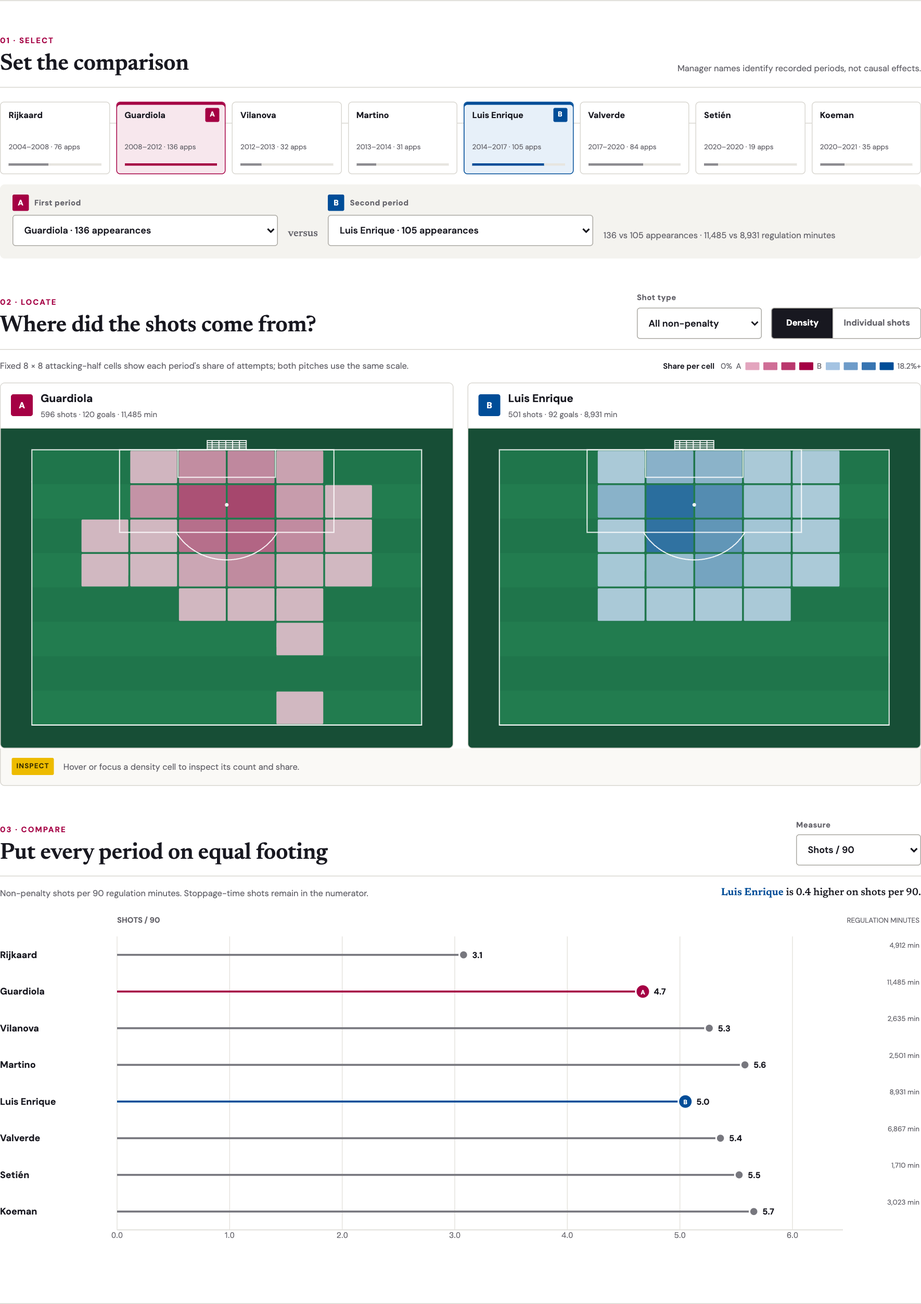
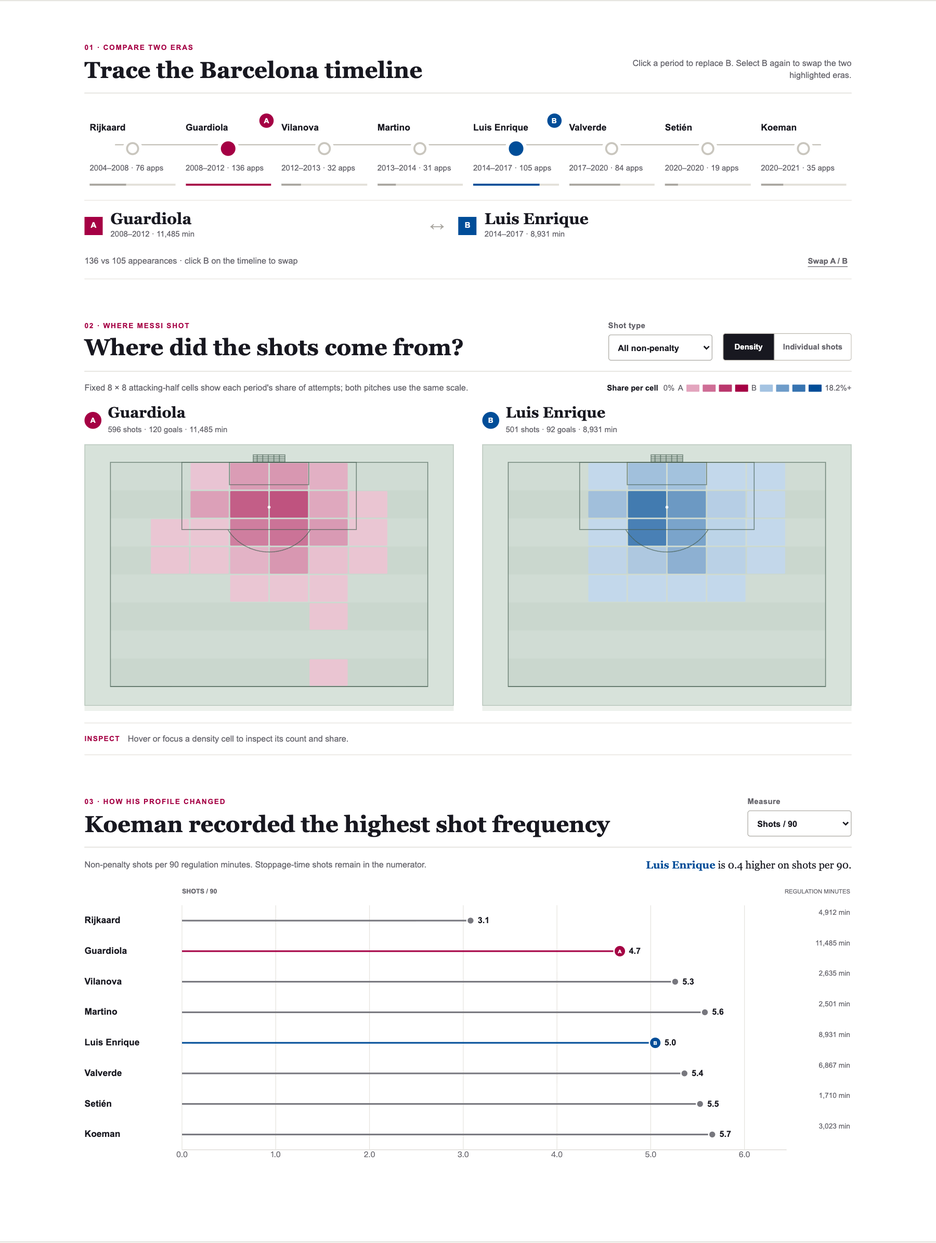
Reframe Messi redesign as a football editorial story

diff --git a/main.js b/main.js
@@ -33,22 +33,49 @@ function renderRail() {
     .attr("class", "period").attr("type", "button")
     .attr("data-selected", d => +d.manager_id === +state.a && +d.manager_id === +state.b ? "both" : +d.manager_id === +state.a ? "a" : +d.manager_id === +state.b ? "b" : null)
     .attr("aria-pressed", d => +d.manager_id === +state.a || +d.manager_id === +state.b ? "true" : "false")
-    .attr("aria-label", d => `${shortName(d)}, ${d.matches} appearances, ${formatInt(d.minutes)} regulation minutes. Set as comparison period B.`)
+    .attr("aria-label", d => +d.manager_id === +state.a ? `${shortName(d)}, period A. Select another period to compare.` : +d.manager_id === +state.b ? `${shortName(d)}, period B. Activate to swap A and B.` : `${shortName(d)}, ${d.matches} appearances, ${formatInt(d.minutes)} regulation minutes. Set as period B.`)
     .html(d => {
       const selected = +d.manager_id === +state.a && +d.manager_id === +state.b ? "A/B" : +d.manager_id === +state.a ? "A" : +d.manager_id === +state.b ? "B" : "";
       return `${selected ? `<span class="period-slot">${selected}</span>` : ""}<span class="period-name">${shortName(d)}</span><span class="period-date">${d.first.slice(0, 4)}–${d.last.slice(0, 4)} · ${d.matches} apps</span><span class="period-bar"><span style="width:${100 * d.minutes / maxMinutes}%"></span></span>`;
     })
     .on("click", (_, d) => {
       if (+d.manager_id === +state.a) return;
-      state.b = +d.manager_id;
+      if (+d.manager_id === +state.b) [state.a, state.b] = [state.b, state.a];
+      else state.b = +d.manager_id;
       state.pinned = null;
       render();
     });
   cards.order();
-  d3.select("#manager-a").property("value", state.a);
-  d3.select("#manager-b").property("value", state.b);
   const a = findPeriod(state.a), b = findPeriod(state.b);
-  d3.select("#comparison-note").text(`${a.matches} vs ${b.matches} appearances · ${formatInt(a.minutes)} vs ${formatInt(b.minutes)} regulation minutes`);
+  d3.select("#compare-a-name").text(shortName(a));
+  d3.select("#compare-a-meta").text(`${a.first.slice(0, 4)}–${a.last.slice(0, 4)} · ${formatInt(a.minutes)} min`);
+  d3.select("#compare-b-name").text(shortName(b));
+  d3.select("#compare-b-meta").text(`${b.first.slice(0, 4)}–${b.last.slice(0, 4)} · ${formatInt(b.minutes)} min`);
+  d3.select("#comparison-note").text(`${a.matches} vs ${b.matches} appearances · click B on the timeline to swap`);
+}
+
+function drawHeroVisual() {
+  const host = d3.select("#hero-visual");
+  const width = Math.max(280, host.node().clientWidth || 440), height = 280;
+  const svg = host.selectAll("svg").data([null]).join("svg").attr("viewBox", `0 0 ${width} ${height}`).attr("role", "img");
+  svg.selectAll("*").remove();
+  const x = d3.scaleLinear().domain([60, 120]).range([22, width - 22]);
+  const y = d3.scaleLinear().domain([0, 80]).range([height - 24, 24]);
+  svg.append("rect").attr("x", 0).attr("y", 0).attr("width", width).attr("height", height).attr("fill", "#1f2b42");
+  svg.append("rect").attr("x", x(60)).attr("y", y(80)).attr("width", x(120) - x(60)).attr("height", y(0) - y(80)).attr("fill", "#243b57").attr("opacity", .75);
+  d3.range(8).forEach(i => svg.append("rect").attr("x", 0).attr("y", i * height / 8).attr("width", width).attr("height", height / 8).attr("fill", i % 2 ? "#213650" : "#1e3048").attr("opacity", .55));
+  const line = svg.append("g").attr("fill", "none").attr("stroke", "rgba(255,255,255,.45)").attr("stroke-width", 1);
+  line.append("rect").attr("x", x(60)).attr("y", y(80)).attr("width", x(120) - x(60)).attr("height", y(0) - y(80));
+  line.append("rect").attr("x", x(60)).attr("y", y(62)).attr("width", x(120) - x(60)).attr("height", y(18) - y(62));
+  line.append("rect").attr("x", x(60)).attr("y", y(50)).attr("width", x(120) - x(60)).attr("height", y(30) - y(50));
+  const all = shots.filter(d => d.shot_type !== "Penalty");
+  const bins = binsFor(all).filter(d => d.count);
+  const max = d3.max(bins, d => d.share) || 1;
+  const glow = svg.append("g").attr("aria-hidden", "true");
+  bins.forEach(d => glow.append("circle").attr("cx", x(60 + (d.xBin + .5) * 7.5)).attr("cy", y((d.yBin + .5) * 10)).attr("r", 7 + 20 * d.share / max).attr("fill", d.xBin % 2 ? COLOR.b : COLOR.a).attr("opacity", .15 + .35 * d.share / max).attr("filter", "blur(7px)"));
+  svg.append("g").selectAll("circle").data(all.filter((_, i) => i % 10 === 0)).join("circle").attr("cx", d => x(d.x)).attr("cy", d => y(d.y)).attr("r", 1.35).attr("fill", (_, i) => i % 2 ? "#d75b8b" : "#5b94ce").attr("opacity", .58);
+  svg.append("text").attr("x", width - 18).attr("y", 20).attr("text-anchor", "end").attr("fill", "rgba(255,255,255,.8)").attr("font-size", 10).attr("font-weight", 700).attr("letter-spacing", 1.5).text("ATTACKING HALF");
+  svg.append("text").attr("x", 18).attr("y", height - 11).attr("fill", "rgba(255,255,255,.7)").attr("font-size", 10).text("2,278 attempts · one common scale");
 }
 
 function addPitchBase(svg, toX, toY, letter) {
@@ -59,8 +86,8 @@ function addPitchBase(svg, toX, toY, letter) {
   d3.range(8).forEach(i => grass.append("rect")
     .attr("x", toX(0)).attr("y", toY(120 - i * 7.5))
     .attr("width", toX(80) - toX(0)).attr("height", Math.abs(toY(112.5) - toY(120)) + .5)
-    .attr("fill", i % 2 ? "#237f51" : "#20784d"));
-  grass.append("rect").attr("x", toX(0)).attr("y", toY(120)).attr("width", toX(80) - toX(0)).attr("height", toY(60) - toY(120)).attr("fill", "#0d3e2a").attr("opacity", .05);
+    .attr("fill", i % 2 ? "#cfdcd3" : "#d7e2da"));
+  grass.append("rect").attr("x", toX(0)).attr("y", toY(120)).attr("width", toX(80) - toX(0)).attr("height", toY(60) - toY(120)).attr("fill", "#aebfb3").attr("opacity", .16);
 
   const goal = svg.append("g").attr("class", "goal-net pitch-line").attr("aria-hidden", "true");
   const gx1 = toX(36), gx2 = toX(44), goalY = toY(120), backY = goalY - 13;
@@ -254,6 +281,9 @@ function renderMetrics() {
   const max = d3.max(values) || 1;
   const x = d3.scaleLinear().domain([0, max * (mobile ? 1.2 : 1.14)]).range([left, width - right]);
   const meta = metricMeta();
+  const leader = periods.map(d => ({ period: d, value: periodMetric(d) })).sort((a, b) => b.value - a.value)[0];
+  const metricHeadline = state.metric === "shots90" ? `${shortName(leader.period)} recorded the highest shot frequency` : state.metric === "npxg90" ? `${shortName(leader.period)} generated the most expected goals per 90` : `${shortName(leader.period)} had the highest average chance quality`;
+  d3.select("#metric-title").text(metricHeadline);
   const svg = d3.select(container).selectAll("svg").data([null]).join("svg")
     .attr("viewBox", `0 0 ${width} ${height}`).attr("role", "img").attr("aria-label", `${meta.label} by manager period, in chronological order`);
   svg.selectAll("title").data([null]).join("title").text(`${meta.label} across eight Barcelona manager periods`);
@@ -324,20 +354,7 @@ async function initialize() {
     if (!shots.length || periods.length < 2) throw new Error("The audited shot data is incomplete.");
     state.a = periods.find(d => shortName(d) === "Guardiola")?.manager_id || periods[0].manager_id;
     state.b = periods.find(d => shortName(d) === "Luis Enrique")?.manager_id || periods[1].manager_id;
-    for (const selector of ["#manager-a", "#manager-b"]) d3.select(selector).selectAll("option").data(periods).join("option")
-      .attr("value", d => d.manager_id).text(d => `${shortName(d)} · ${d.matches} appearances`);
-    d3.select("#manager-a").on("change", e => {
-      state.a = +e.target.value;
-      if (state.a === state.b) state.b = periods.find(p => +p.manager_id !== state.a).manager_id;
-      state.pinned = null;
-      render();
-    });
-    d3.select("#manager-b").on("change", e => {
-      state.b = +e.target.value;
-      if (state.a === state.b) state.a = periods.find(p => +p.manager_id !== state.b).manager_id;
-      state.pinned = null;
-      render();
-    });
+    d3.select("#swap-periods").on("click", () => { [state.a, state.b] = [state.b, state.a]; state.pinned = null; render(); });
     d3.select("#shot-type").on("change", e => { state.type = e.target.value; state.pinned = null; render(); });
     d3.select("#metric").on("change", e => { state.metric = e.target.value; renderMetrics(); });
     d3.selectAll("[data-mode]").on("click", e => {
@@ -350,12 +367,12 @@ async function initialize() {
     const all = shots.filter(d => d.shot_type !== "Penalty");
     const leaders = periods.map(d => ({ name: shortName(d), rate: periodMetric(d, "shots90") })).sort((a, b) => b.rate - a.rate);
     d3.select("#finding-text").text(`${formatInt(all.length)} audited non-penalty shots reveal a change in both frequency and location. ${leaders[0].name} has the highest observed shot rate (${fmt1(leaders[0].rate)} per 90), while the linked half-pitches show where each period differs.`);
-    d3.select("#scope-appearances").text(formatInt(audit.messi_appearances));
     d3.select("#scope-shots").text(formatInt(audit.non_penalty_shots));
     d3.select("#provenance").text(`Audited source: ${audit.barcelona_match_records} Barcelona match files, ${audit.messi_appearances} Messi lineup appearances and ${formatInt(audit.shot_events)} shot events; ${audit.manager_source_counts?.["sole-known-manager-in-season"] || 0} manager records inferred only in otherwise single-manager seasons. Snapshot ${audit.commit.slice(0, 12)}; all rules and IDs remain available in the audit file.`);
+    drawHeroVisual();
     render();
     let resizeTimer;
-    new ResizeObserver(() => { clearTimeout(resizeTimer); resizeTimer = setTimeout(renderMetrics, 100); }).observe(document.querySelector("#metric-chart"));
+    new ResizeObserver(() => { clearTimeout(resizeTimer); resizeTimer = setTimeout(() => { drawHeroVisual(); renderMetrics(); }, 100); }).observe(document.querySelector("#metric-chart"));
   } catch (error) {
     console.error(error);
     d3.select("#finding-text").text(`Unable to load the visualization: ${error.message}`);

diff --git a/index.html b/index.html
@@ -26,36 +26,27 @@
 
   <main>
     <section class="intro" aria-labelledby="page-title">
-      <div class="intro-copy">
-        <p class="eyebrow">FC Barcelona · La Liga · 2004/05–2020/21</p>
-        <h1 id="page-title">Messi, <em>repositioned.</em></h1>
-        <p class="subtitle">How his shot profile varied across eight Barcelona manager periods</p>
+      <div class="hero-copy">
+        <p class="eyebrow">FC BARCELONA · LA LIGA · 2004/05–2020/21</p>
+        <h1 id="page-title">Messi,<br><em>repositioned.</em></h1>
+        <p class="subtitle">How his shooting profile varied across eight Barcelona managers.</p>
         <p class="lede" id="finding-text">Loading the audited StatsBomb data…</p>
+        <div class="hero-stats" aria-label="Dataset scope"><span><b>17</b><small>seasons</small></span><span><b id="scope-shots">2,278</b><small>non-penalty shots</small></span><span><b>8</b><small>manager periods</small></span></div>
       </div>
-      <dl class="scope-strip" aria-label="Dataset scope">
-        <div><dt>Seasons</dt><dd>17</dd></div>
-        <div><dt>Appearances</dt><dd id="scope-appearances">518</dd></div>
-        <div><dt>Non-penalty shots</dt><dd id="scope-shots">2,278</dd></div>
-        <div><dt>Data source</dt><dd class="source-value">StatsBomb</dd></div>
-      </dl>
+      <figure class="hero-visual"><div id="hero-visual" role="img" aria-label="Career shot density across the attacking half"></div><figcaption>Every included non-penalty attempt · common attacking-half coordinates</figcaption></figure>
     </section>
 
     <section class="workspace-band" id="analysis" aria-label="Interactive shot analysis">
       <div class="workspace">
         <div class="section-top">
-          <div><span class="step">01 · SELECT</span><h2>Set the comparison</h2></div>
-          <p>Manager names identify recorded periods, not causal effects.</p>
+          <div><span class="step">01 · COMPARE TWO ERAS</span><h2>Trace the Barcelona timeline</h2></div>
+          <p>Click a period to replace B. Select B again to swap the two highlighted eras.</p>
         </div>
         <div class="manager-rail" id="manager-rail" aria-label="Manager periods in chronological order"></div>
-        <div class="comparison-dock">
-          <label class="period-control period-a"><span><b>A</b> First period</span><select id="manager-a" aria-label="First manager period"></select></label>
-          <span class="versus" aria-hidden="true">versus</span>
-          <label class="period-control period-b"><span><b>B</b> Second period</span><select id="manager-b" aria-label="Second manager period"></select></label>
-          <p class="selection-note" id="comparison-note" aria-live="polite"></p>
-        </div>
+        <div class="comparison-summary" aria-live="polite"><div class="compare-person compare-a"><span class="compare-tag">A</span><span><b id="compare-a-name">Guardiola</b><small id="compare-a-meta">2008–2012</small></span></div><span class="compare-arrow" aria-hidden="true">↔</span><div class="compare-person compare-b"><span class="compare-tag">B</span><span><b id="compare-b-name">Luis Enrique</b><small id="compare-b-meta">2014–2017</small></span></div><p id="comparison-note">Click a timeline period to replace B.</p><button id="swap-periods" type="button" aria-label="Swap comparison periods">Swap A / B</button></div>
 
         <div class="section-top pitch-top">
-          <div><span class="step">02 · LOCATE</span><h2>Where did the shots come from?</h2></div>
+          <div><span class="step">02 · WHERE MESSI SHOT</span><h2>Where did the shots come from?</h2></div>
           <div class="tools">
             <label class="filter-label">Shot type<select id="shot-type"><option value="nonpen">All non-penalty</option><option value="Open Play">Open play</option><option value="Free Kick">Direct free kick</option></select></label>
             <div class="segmented" role="group" aria-label="Shot map display"><button type="button" data-mode="density" aria-pressed="true">Density</button><button type="button" data-mode="shots" aria-pressed="false">Individual shots</button></div>
@@ -72,7 +63,7 @@
         <div class="event-detail" id="event-detail" aria-live="polite"><span class="detail-kicker">INSPECT</span><span id="event-detail-text">Hover or focus a density cell. In shot mode, select an attempt to pin its match details.</span></div>
 
         <div class="section-top metrics-top">
-          <div><span class="step">03 · COMPARE</span><h2>Put every period on equal footing</h2></div>
+          <div><span class="step">03 · HOW HIS PROFILE CHANGED</span><h2 id="metric-title">Compare frequency and chance quality</h2></div>
           <label class="filter-label">Measure<select id="metric"><option value="shots90">Shots / 90</option><option value="npxg90">NPxG / 90</option><option value="xgshot">NPxG / shot</option></select></label>
         </div>
         <div class="metric-intro"><p class="chart-note" id="metric-description">Non-penalty shots per 90 regulation minutes on the pitch. Stoppage-time shots remain in the numerator.</p><p class="metric-insight" id="metric-insight" aria-live="polite"></p></div>
@@ -82,22 +73,22 @@
     </section>
 
     <section class="context" id="original" aria-labelledby="original-title">
-      <div class="section-top"><div><span class="step">THE ORIGINAL</span><h2 id="original-title">A strong idea, limited by its encoding</h2></div><a class="text-link" href="report.html">Read the project report <span aria-hidden="true">→</span></a></div>
+      <div class="section-top"><div><span class="step">THE ORIGINAL → OUR RESPONSE</span><h2 id="original-title">Keep the football question, rebuild the comparison</h2></div><a class="text-link" href="report.html">Read the project report <span aria-hidden="true">→</span></a></div>
       <p class="context-lede">Abhilash Prakash's <a href="https://github.com/Abhilashup/Lionel-Messi-Shots-And-Goals-Data-Visualization-Project">Lionel Messi Shots and Goals Under Different Managers</a> makes shot locations immediately recognizable through repeated pitches. It also creates four concrete comparison problems that the redesign addresses.</p>
       <div class="original-grid">
         <figure><img src="assets/original-early.png" loading="lazy" alt="Prakash's first four pitch maps for Rijkaard, Guardiola, Vilanova and Martino, crowded with shot points."><figcaption>Original, part 1: earlier manager periods. <a href="https://user-images.githubusercontent.com/66258607/141074960-e1e107d2-bab4-444d-8911-76b78f108e16.png">Source image</a></figcaption></figure>
         <figure><img src="assets/original-late.png" loading="lazy" alt="Prakash's remaining four pitch maps for Luis Enrique, Valverde, Setién and Koeman."><figcaption>Original, part 2: later manager periods. <a href="https://user-images.githubusercontent.com/66258607/141075116-e78a49bc-bf7e-488e-9b6b-4fe4dce0a8af.png">Source image</a></figcaption></figure>
       </div>
       <div class="critique-grid">
-        <div><span class="critique-index">01</span><h3>Overlap hides concentration</h3><p>Hundreds of opaque circles compete in central areas. Shared-scale bins reveal spatial concentration while the event view preserves exact shots.</p></div>
-        <div><span class="critique-index">02</span><h3>Totals hide exposure</h3><p>Manager periods vary sharply in length. Rates use Messi's audited on-pitch minutes, with sample size visible beside each comparison.</p></div>
-        <div><span class="critique-index">03</span><h3>Comparison relies on memory</h3><p>Eight pitches split across two images are hard to compare. Linked A/B views keep geometry, filters and scales aligned.</p></div>
-        <div><span class="critique-index">04</span><h3>Sources change mid-series</h3><p>The original combines providers. This redesign uses one pinned StatsBomb snapshot and documents remaining historical-version limits.</p></div>
+        <div><span class="critique-index">01</span><h3>Overlap hides concentration</h3><p>Hundreds of opaque circles compete in central areas.</p><strong class="response">Density bins reveal the shape; shot mode preserves the events.</strong></div>
+        <div><span class="critique-index">02</span><h3>Totals hide exposure</h3><p>Longer manager periods naturally create more marks.</p><strong class="response">Per-90 rates use Messi's audited on-pitch minutes.</strong></div>
+        <div><span class="critique-index">03</span><h3>Comparison relies on memory</h3><p>Eight pitches split across two images are hard to compare.</p><strong class="response">One linked timeline keeps the A/B views aligned.</strong></div>
+        <div><span class="critique-index">04</span><h3>Sources change mid-series</h3><p>The original combines providers and measurement systems.</p><strong class="response">One pinned StatsBomb snapshot makes the contract explicit.</strong></div>
       </div>
     </section>
 
     <section class="methods" id="methods" aria-labelledby="methods-title">
-      <div class="section-top"><div><span class="step">METHOD &amp; SOURCES</span><h2 id="methods-title">What the evidence can support</h2></div></div>
+      <div class="section-top"><div><span class="step">METHOD NOTES</span><h2 id="methods-title">What the evidence can support</h2></div><a class="text-link" href="report.html">Full methodology →</a></div>
       <div class="methods-grid">
         <div><span>01</span><h3>Scope</h3><p>Barcelona La Liga, 2004/05–2020/21. The default excludes penalties; direct free kicks remain filterable inside the non-penalty total.</p></div>
         <div><span>02</span><h3>Measurement</h3><p>Playing time is the union of lineup intervals, capped at 90 regulation minutes per match. Stoppage-time shots remain in the numerator.</p></div>

diff --git a/style.css b/style.css
@@ -155,3 +155,39 @@ footer{display:flex;justify-content:space-between;gap:20px;padding:20px 0 30px;b
   footer{display:block}footer span{display:block;margin-bottom:5px}
 }
 @media(prefers-reduced-motion:reduce){html{scroll-behavior:auto}.period,.density-cell,.shot{transition:none}}
+
+/* Editorial sports-data pass: the data stays the same, the visual hierarchy gets quieter. */
+body{font-size:16px;background:#f7f6f2}
+.site-header{background:#faf9f5;border-bottom-color:#e4e1da}
+.site-header:after{height:2px;background:linear-gradient(90deg,var(--barca-red) 0 45%,var(--barca-blue) 45% 100%)}
+.site-inner{min-height:78px}
+.site-brand b{font-size:18px}.site-brand small{font-size:11px;letter-spacing:.55px}
+.site-inner nav{font-size:12px}.site-inner nav a{padding-block:28px 25px}
+.intro{position:relative;display:grid;grid-template-columns:minmax(0,1fr) minmax(360px,480px);gap:64px;align-items:center;padding:68px 0 62px;overflow:hidden}
+.hero-copy{position:relative;z-index:1}.intro .eyebrow{font-size:11px;letter-spacing:1.5px;margin-bottom:18px}
+.intro h1{font-size:clamp(58px,7vw,96px);line-height:.88;letter-spacing:-1.8px}
+.intro .subtitle{max-width:420px;margin:22px 0 0;font-size:20px;line-height:1.3;color:#4f4f57}
+.intro .lede{max-width:680px;margin-top:26px;padding-left:18px;font-size:17px;line-height:1.55;border-left:3px solid var(--barca-red)}
+.hero-stats{display:flex;gap:34px;margin-top:34px}.hero-stats span{display:grid;gap:3px}.hero-stats b{font:600 27px/1 "Newsreader",Georgia,serif;color:var(--ink)}.hero-stats small{font-size:12px;color:var(--muted);text-transform:uppercase;letter-spacing:.7px}
+.hero-visual{position:relative;margin:0;min-height:300px}.hero-visual:before{content:"";position:absolute;inset:16px -20px -16px 20px;background:var(--barca-red);opacity:.1;transform:rotate(-2deg)}.hero-visual>div{position:relative;z-index:1}.hero-visual svg{display:block;width:100%;height:auto;border:1px solid #27344a;box-shadow:12px 14px 0 rgba(0,77,152,.14)}.hero-visual figcaption{position:relative;z-index:1;margin-top:11px;font-size:12px;color:var(--muted)}
+.workspace-band{background:#fff}.workspace{padding:58px 0 72px}.section-top{padding-bottom:16px}.section-top h2{font-size:35px}.section-top>p{font-size:13px;line-height:1.4}.step{font-size:11px;letter-spacing:1.35px}
+.manager-rail{grid-template-columns:repeat(8,minmax(104px,1fr));gap:0;padding:34px 0 22px;overflow:visible}.manager-rail:before{top:78px;left:4%;right:4%;height:2px;background:#c9c6be}
+.period{min-width:104px;min-height:108px;padding:10px 8px 0;border:0;border-radius:0;background:transparent;box-shadow:none!important;transform:none!important;transition:color .18s ease}
+.period:hover{border:0;background:transparent;box-shadow:none;color:var(--barca-red)}.period[data-selected="a"],.period[data-selected="b"],.period[data-selected="both"]{border:0;background:transparent;color:var(--ink)}
+.period:before{content:"";display:block;order:2;width:14px;height:14px;margin:13px auto 10px;border:3px solid #c9c6be;border-radius:50%;background:#fff;box-shadow:0 0 0 5px #fff;transition:background .18s,border-color .18s,transform .18s}
+.period[data-selected="a"]:before{border-color:var(--barca-red);background:var(--barca-red);transform:scale(1.12)}.period[data-selected="b"]:before{border-color:var(--barca-blue);background:var(--barca-blue);transform:scale(1.12)}.period[data-selected="both"]:before{border-color:var(--barca-red);background:linear-gradient(90deg,var(--barca-red) 50%,var(--barca-blue) 50%);transform:scale(1.12)}
+.period-name{order:1;padding:0;min-height:0;font-size:14px;line-height:1.15}.period-date{order:3;font-size:12px;color:var(--muted);white-space:nowrap}.period-bar{order:4;height:3px;margin:13px auto 0;background:#e3e0d9;width:100%}.period-bar span{background:#a9a6a0}.period[data-selected="a"] .period-bar span{background:var(--barca-red)}.period[data-selected="b"] .period-bar span{background:var(--barca-blue)}
+.period-slot{top:-3px;right:4px;min-width:22px;height:22px;font-size:11px;border-radius:50%}.period[data-selected="both"] .period-slot{background:var(--ink)}
+.comparison-summary{display:grid;grid-template-columns:1fr auto 1fr auto;align-items:center;gap:22px;padding:16px 0;border-top:1px solid #e6e3dd;border-bottom:1px solid #e6e3dd}.compare-person{display:flex;align-items:center;gap:12px}.compare-person>span:last-child{display:grid;gap:2px}.compare-person b{font:600 24px/1 "Newsreader",Georgia,serif}.compare-person small{font-size:12px;color:var(--muted)}.compare-tag{display:grid;place-items:center;width:28px;height:28px;color:#fff;font-size:12px;font-weight:700}.compare-a .compare-tag{background:var(--barca-red)}.compare-b .compare-tag{background:var(--barca-blue)}.compare-arrow{font-size:22px;color:#a9a6a0}.comparison-summary p{grid-column:1/4;margin:0;color:var(--muted);font-size:13px}.comparison-summary button{border:0;background:transparent;color:var(--muted);font-size:12px;font-weight:700;text-decoration:underline;text-underline-offset:4px}.comparison-summary button:hover{color:var(--ink)}
+.pitch-top,.metrics-top{margin-top:58px}.tools{gap:16px}.filter-label{font-size:12px}.filter-label select{font-size:13px}.segmented{height:42px;border-color:#bdb9b0}.segmented button{font-size:12px}
+.map-key-row{min-height:50px}.chart-note{font-size:13px}.density-legend{font-size:12px}.density-legend .swatch{width:20px;height:11px}
+.pitch-grid{gap:44px}.pitch-panel{overflow:visible;border:0;border-radius:0;background:transparent}.pitch-panel figcaption{min-height:62px;padding:0 0 12px;background:transparent;border:0}.pitch-panel figcaption strong{font:600 23px/1 "Newsreader",Georgia,serif}.pitch-panel figcaption small{font-size:12px;margin-top:5px}.pitch-letter{width:26px;height:26px;border-radius:50%;font-size:11px}.pitch-host{background:transparent}.pitch-host svg{background:#d7e2da;border:1px solid #b4c2b8;box-shadow:0 8px 0 #edf1ec}.pitch-line{stroke:rgba(66,91,78,.68);stroke-width:1.4}.pitch-line.soft{stroke:rgba(66,91,78,.3)}
+.density-cell{mix-blend-mode:multiply}.event-detail{min-height:50px;margin-top:26px;padding:13px 0;border:0;border-top:1px solid #e4e1da;border-bottom:1px solid #e4e1da;border-radius:0;background:transparent;font-size:13px}.detail-kicker{padding:0;background:transparent;color:var(--barca-red);font-size:11px;letter-spacing:1px}
+.metric-intro{min-height:54px}.metric-insight{font-size:16px}.metric-chart{min-height:480px}.metric-axis text{font-size:12px}.metric-row-label{font-size:14px}.metric-value{font-size:13px}.metric-exposure{font-size:11px}
+.context{padding:70px 0 78px}.context-lede{font-size:16px;max-width:800px}.original-grid{gap:28px}.original-grid figure{padding:0;border:0;background:transparent}.original-grid figcaption{font-size:12px;padding:10px 0}.critique-grid{gap:30px;margin-top:42px}.critique-grid>div{padding-top:14px;border-top-width:2px}.critique-index{font-size:11px}.critique-grid h3{font-size:17px;margin:8px 0 7px}.critique-grid p{font-size:14px;line-height:1.5}.response{display:block;margin-top:13px;color:var(--barca-blue);font-size:14px;line-height:1.45}
+.methods{padding:52px 0 62px}.methods-grid{gap:42px;padding:24px 0}.methods-grid>div>span{font-size:11px}.methods-grid h3{font-size:17px}.methods-grid p,.references p{font-size:14px}.provenance{font-size:13px;padding:14px 0}.references h3{font-size:17px}
+footer{font-size:11px}
+
+@media(max-width:900px){.intro{grid-template-columns:1fr 380px;gap:32px}.intro h1{font-size:clamp(52px,8vw,80px)}.manager-rail{overflow-x:auto;padding-bottom:25px}.manager-rail:before{left:1%;right:1%}.period{min-width:126px}.comparison-summary{grid-template-columns:1fr auto 1fr}.comparison-summary p{grid-column:1/-1}.comparison-summary button{grid-column:1/-1;justify-self:start}.pitch-grid{gap:28px}.critique-grid{grid-template-columns:repeat(2,1fr)}}
+@media(max-width:700px){.intro{display:block;padding:44px 0 50px}.intro h1{font-size:58px}.intro .subtitle{font-size:18px}.hero-visual{margin-top:38px}.hero-stats{gap:22px}.hero-stats b{font-size:23px}.hero-stats small{font-size:11px}.workspace{padding-top:42px}.section-top h2{font-size:29px}.manager-rail{grid-template-columns:repeat(4,minmax(0,1fr));grid-template-rows:repeat(2,104px);row-gap:14px;margin-inline:0;padding:28px 0 22px;overflow:visible;background:linear-gradient(to bottom,transparent 0 72px,#c9c6be 72px 74px,transparent 74px 190px,#c9c6be 190px 192px,transparent 192px)}.manager-rail:before{display:none}.period{min-width:0;min-height:104px;padding-inline:2px}.period-name{font-size:13px;text-align:center}.period-date{font-size:11px;white-space:normal;text-align:center;line-height:1.2}.period-bar{margin-top:9px}.comparison-summary{gap:12px;padding-block:14px}.compare-person b{font-size:21px}.compare-arrow{font-size:18px}.pitch-grid{grid-template-columns:1fr;gap:36px}.pitch-panel figcaption{padding-bottom:10px}.pitch-host svg{box-shadow:0 6px 0 #edf1ec}.critique-grid{gap:24px}.methods-grid{gap:25px}}
+@media(max-width:430px){.site-inner{min-height:66px}.site-brand b{font-size:16px}.site-brand small{font-size:10px}.site-inner nav a{font-size:11px}.intro h1{font-size:48px}.intro .subtitle{font-size:17px}.hero-stats{gap:14px}.hero-stats b{font-size:21px}.hero-stats small{font-size:10px;letter-spacing:.35px}.section-top h2{font-size:25px}.comparison-summary{grid-template-columns:1fr 18px 1fr}.compare-person b{font-size:18px}.compare-person small{font-size:11px}.comparison-summary p,.comparison-summary button{grid-column:1/-1}.tools{display:grid}.pitch-panel figcaption strong{font-size:21px}.critique-grid{grid-template-columns:1fr}.context,.methods{padding-block:48px}}

diff --git a/report.html b/report.html
@@ -30,7 +30,7 @@
 
     <h2>Redesign rationale</h2>
     <p>The redesign uses one pinned StatsBomb Open Data snapshot for all 17 La Liga seasons. The audit found 524 Barcelona match files, 518 positive-regulation-minute Messi lineup appearances, and 2,352 shots. Manager assignment comes from each match; 39 missing manager records are labeled as inferred only when the season contains one known Barcelona manager. Playing time is calculated from the union of lineup intervals, preventing tactical position changes from double counting minutes.</p>
-    <p>Three linked decisions answer the critique. First, a chronological manager selector places every period in one interface and exposes appearances and minutes. Second, aligned attacking-half pitches switch between individual events and fixed 8-by-8 bins. Bins encode each cell’s share of a period’s filtered shots on a common scale, reducing overlap without allowing longer periods to dominate. Hover or focus reveals cell counts; selecting an event pins its match details, making the aggregation trade-off reversible. Third, an animated dot plot compares shots per 90, non-penalty xG per 90, or xG per shot. The default excludes penalties, and an open-play/free-kick filter updates spatial and quantitative views together.</p>
+    <p>Three linked decisions answer the critique. First, a chronological career timeline places every period in one interface; clicking a period replaces B, while a swap control changes the A/B roles without a second dropdown panel. Second, aligned attacking-half pitches switch between individual events and fixed 8-by-8 bins. Bins encode each cell’s share of a period’s filtered shots on a common scale, reducing overlap without allowing longer periods to dominate. Hover or focus reveals cell counts; selecting an event pins its match details, making the aggregation trade-off reversible. Third, an animated dot plot compares shots per 90, non-penalty xG per 90, or xG per shot. The default excludes penalties, and an open-play/free-kick filter updates spatial and quantitative views together.</p>
     <figure><img src="assets/redesign.png" alt="The redesigned page showing two aligned attacking-half density pitches and a normalized manager comparison plot."><figcaption>Figure 2. Coordinated half-pitch density and normalized-rate views in the D3 redesign.</figcaption></figure>
 
     <h2>Original versus redesign</h2>
